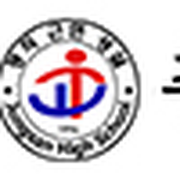
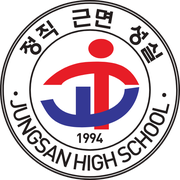
feat: 고해상도 교표로 로고 통일 (상단·히어로·푸터·탭 아이콘)

diff --git a/index.html b/index.html
@@ -6,12 +6,12 @@
 <title>중산 올인원</title>
 <link rel="icon" type="image/png" href="assets/favicon.png">
 <link rel="apple-touch-icon" href="assets/emblem-180.png">
-<link rel="stylesheet" href="css/style.css?v=10311352">
+<link rel="stylesheet" href="css/style.css?v=10311353">
 </head>
 <body>
 <header class="top">
   <div class="brand" onclick="App.go('home')">
-    <span class="logo-school"><img src="assets/logo.jpg" alt="중산고등학교" width="175" height="50"></span><span>올인원</span>
+    <img class="emblem" src="assets/emblem-96.png" alt="중산고등학교 교표" width="40" height="40"><span>중산 올인원</span>
   </div>
   <nav class="tabs" id="tabs">
     <button data-tab="home">홈</button>
@@ -49,7 +49,7 @@
         <div class="hero-stats" id="homeStats"></div>
       </div>
       <div class="hero-art" aria-hidden="true">
-        <div class="art-grid"><span></span><span></span><span></span><span></span><span></span><span></span><span></span><span></span><span></span></div>
+        <div class="hero-emblem"><img src="assets/emblem-512.png" alt="" width="320" height="320"></div>
       </div>
     </div>
 
@@ -85,7 +85,7 @@
     <div class="card dark cta-strip" id="homeCta"></div>
 
     <footer class="foot">
-      <div class="row center" style="gap:10px"><img src="assets/emblem-48.png" alt="" width="28" height="28"><span><b>중산 올인원</b> · 중산고등학교 솔버톤 2026 출품작</span></div>
+      <div class="row center" style="gap:10px"><img src="assets/emblem-64.png" alt="" width="28" height="28"><span><b>중산 올인원</b> · 중산고등학교 솔버톤 2026 출품작</span></div>
       <div class="muted small">실명·학번·전화번호는 저장소와 화면에 표시되지 않습니다. 문의는 커뮤니티 "질문" 게시판으로.</div>
     </footer>
   </section>
@@ -338,17 +338,17 @@
 
 <div id="toast" class="toast hidden"></div>
 
-<script src="js/app.js?v=10311352"></script>
-<script src="js/api.js?v=10311352"></script>
-<script src="js/auth.js?v=10311352"></script>
-<script src="js/solver.js?v=10311352"></script>
-<script src="js/notes.js?v=10311352"></script>
-<script src="js/floors.js?v=10311352"></script>
-<script src="js/map.js?v=10311352"></script>
-<script src="js/lost.js?v=10311352"></script>
-<script src="js/home.js?v=10311352"></script>
-<script src="js/activities.js?v=10311352"></script>
-<script src="js/community.js?v=10311352"></script>
+<script src="js/app.js?v=10311353"></script>
+<script src="js/api.js?v=10311353"></script>
+<script src="js/auth.js?v=10311353"></script>
+<script src="js/solver.js?v=10311353"></script>
+<script src="js/notes.js?v=10311353"></script>
+<script src="js/floors.js?v=10311353"></script>
+<script src="js/map.js?v=10311353"></script>
+<script src="js/lost.js?v=10311353"></script>
+<script src="js/home.js?v=10311353"></script>
+<script src="js/activities.js?v=10311353"></script>
+<script src="js/community.js?v=10311353"></script>
 <script>App.init();</script>
 </body>
 </html>

diff --git a/css/style.css b/css/style.css
@@ -301,7 +301,10 @@ label.check input{width:18px;height:18px;margin:0}
 .ghost.on-dark-btn{color:var(--on-dark);border-color:var(--primary)}
 .ghost.on-dark-btn:hover{background:rgba(118,185,0,.15)}
 
-/* 학교 로고 */
-.logo-school{display:inline-flex;align-items:center;height:36px;padding:0 8px;background:#fff;border-radius:var(--r)}
-.logo-school img{height:28px;width:auto;display:block}
-@media (max-width:768px){.brand span:last-child{display:none}.logo-school img{height:26px}}
+/* 학교 교표 */
+.brand .emblem{width:40px;height:40px;border-radius:50%;background:#fff;display:block}
+.hero-emblem{position:relative;display:grid;place-items:center;width:360px;height:360px}
+.hero-emblem::before{content:"";position:absolute;inset:0;border-radius:50%;border:2px solid var(--primary);opacity:.6}
+.hero-emblem::after{content:"";position:absolute;inset:18px;border-radius:50%;background:radial-gradient(circle,rgba(118,185,0,.25),transparent 70%)}
+.hero-emblem img{position:relative;width:300px;height:300px;border-radius:50%;background:#fff;box-shadow:0 0 0 6px #fff}
+@media (max-width:768px){.brand span:last-child{display:none}.brand .emblem{width:36px;height:36px}}
